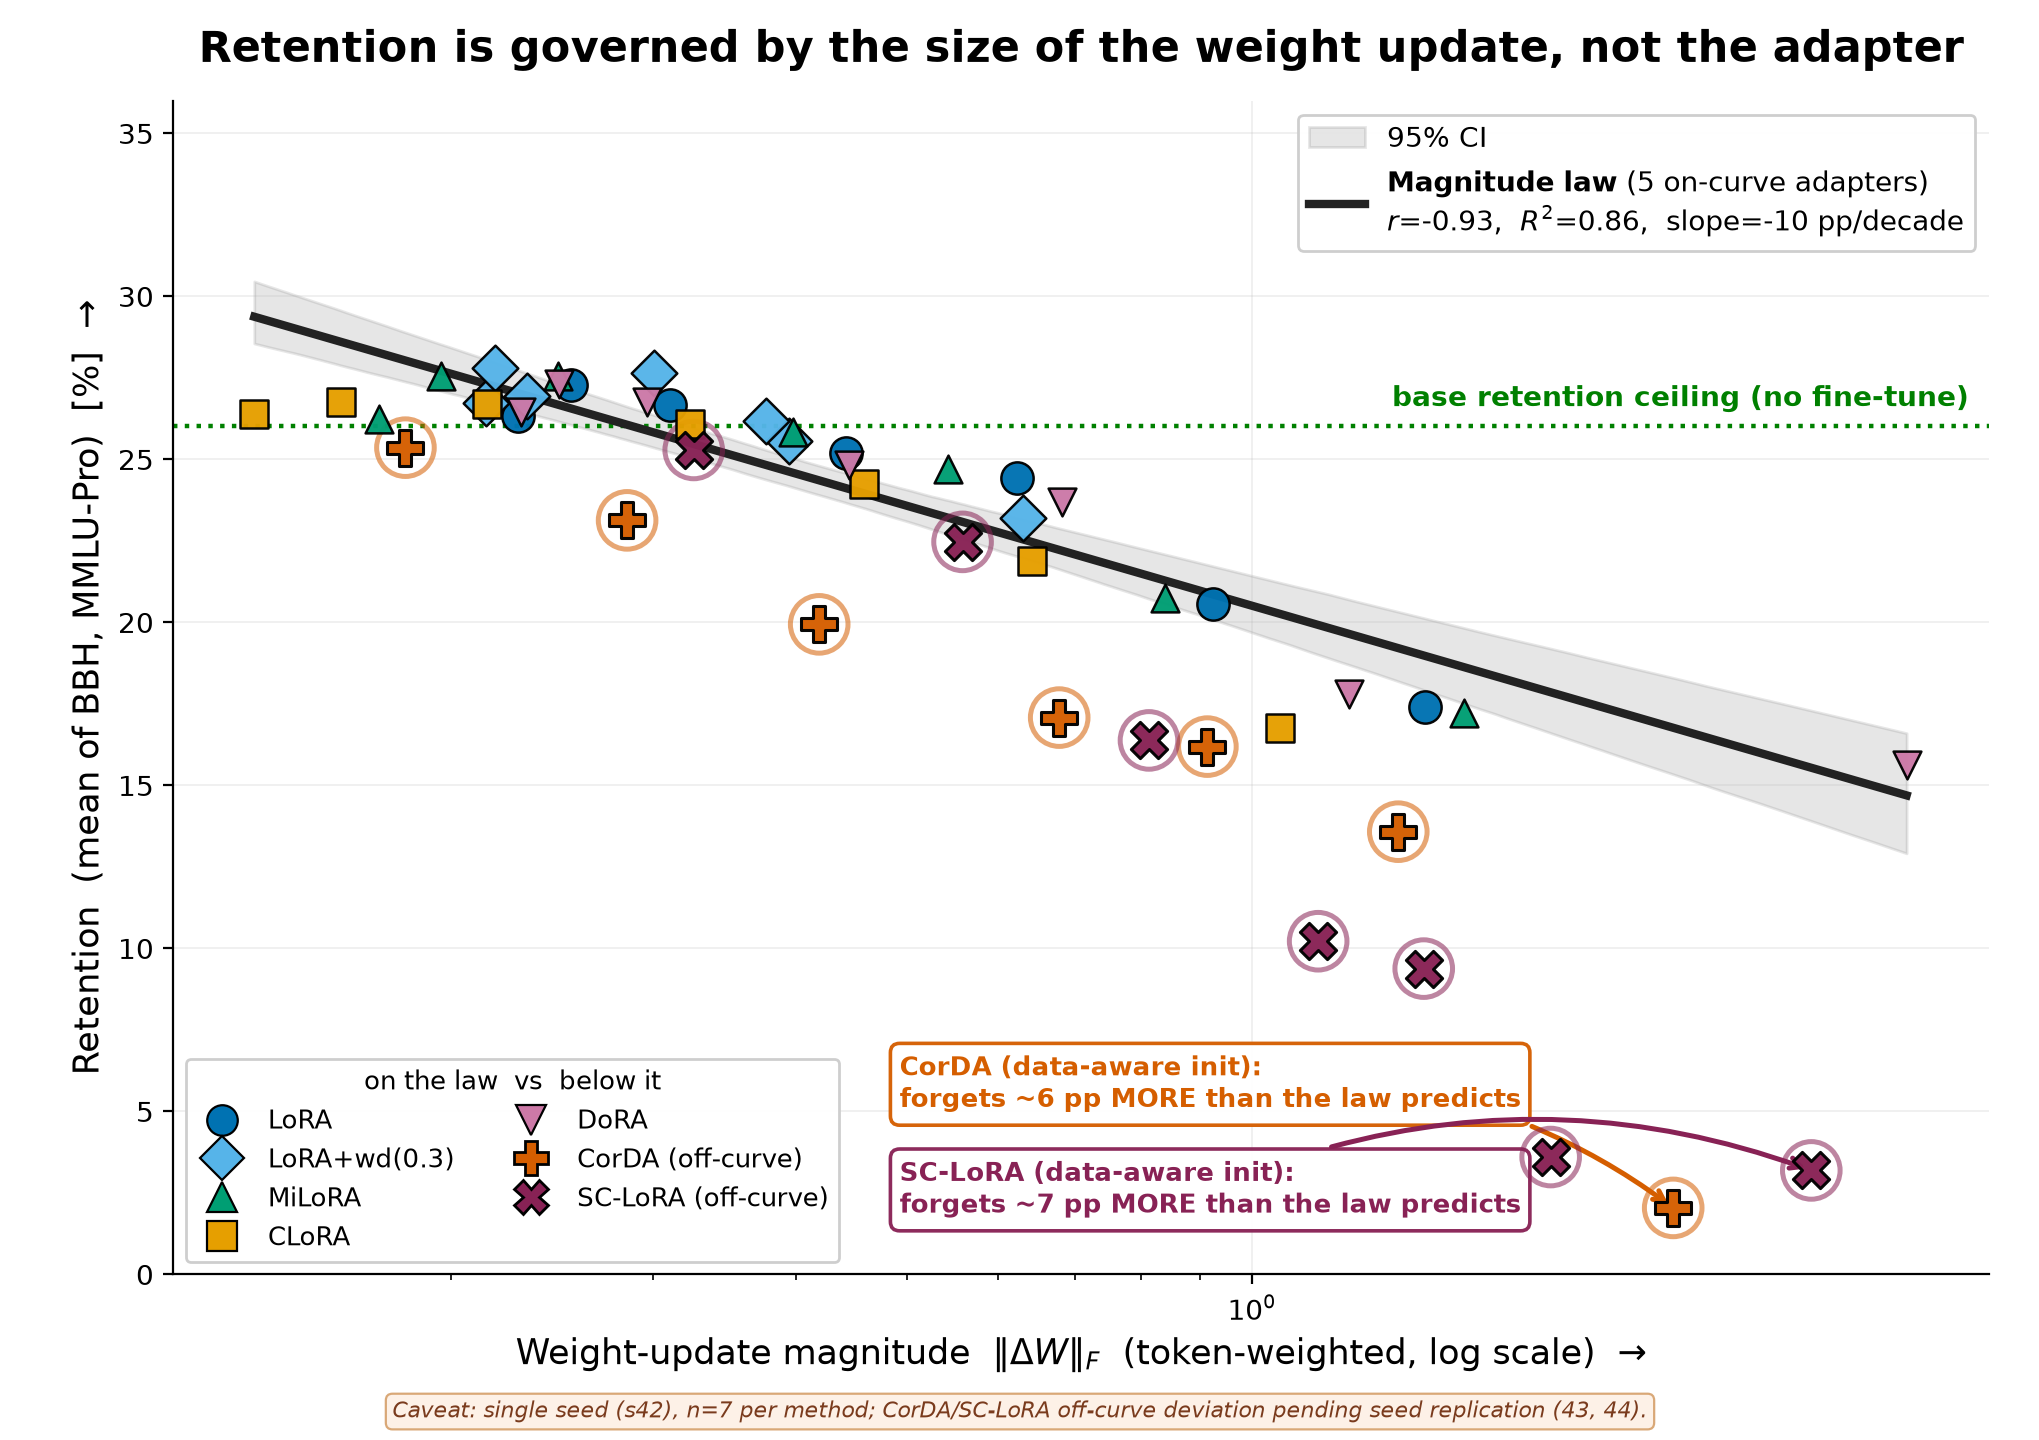
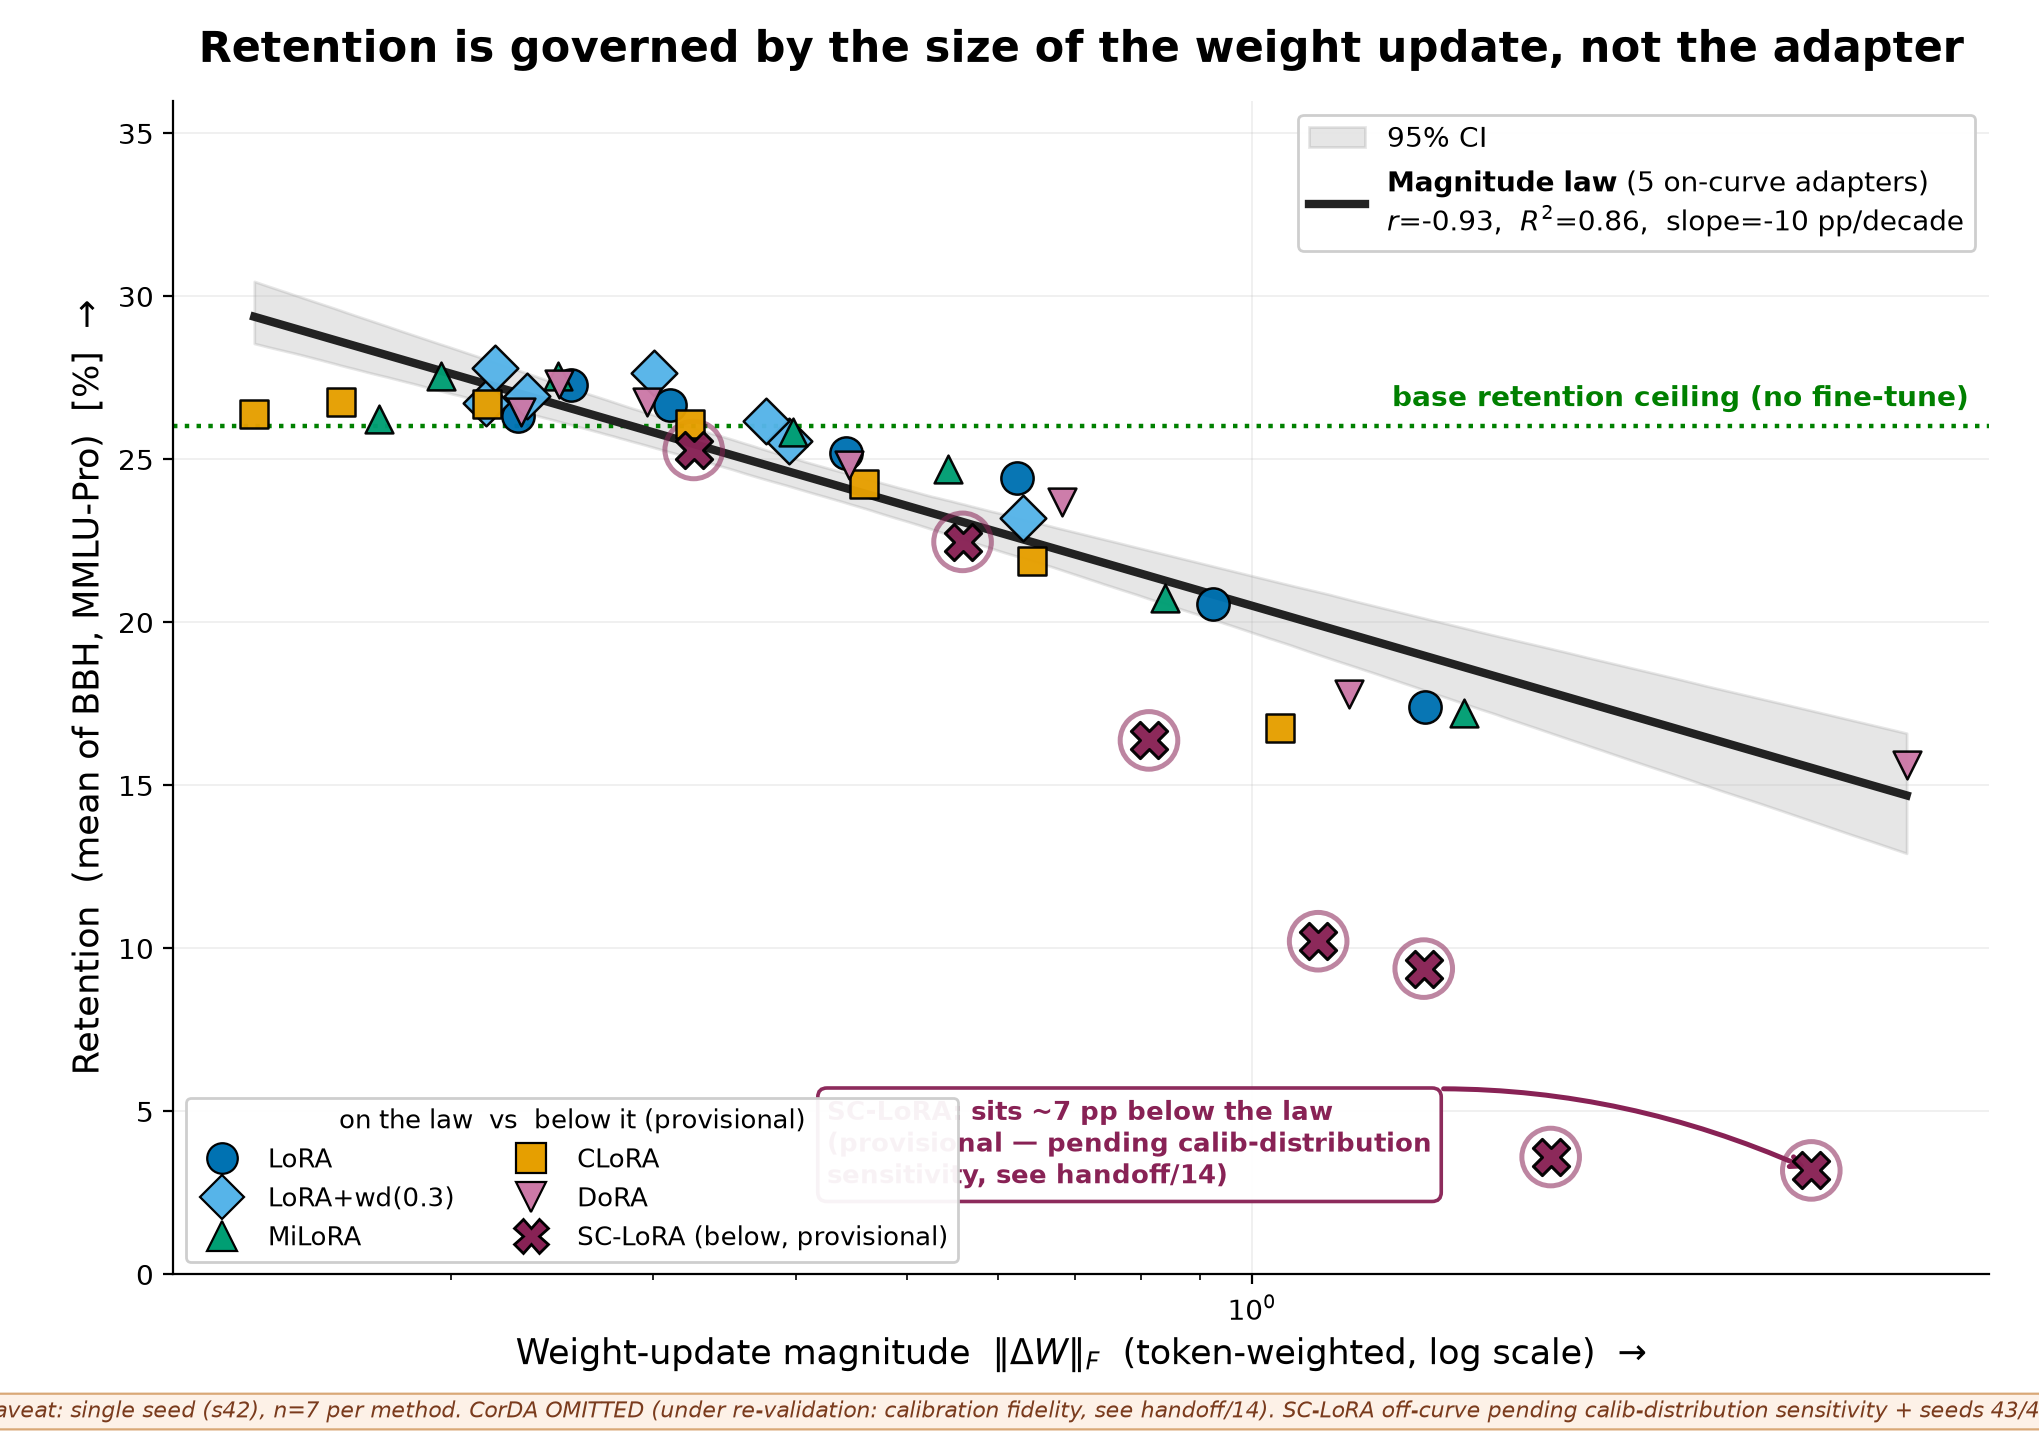
Regenerate figures+tables without CorDA; refit law on 6 methods
Graphs agent reworked paper_figs_v2.py (fig0/fig2 hardcoded-CorDA paths). Runs clean. Hero law (5 on-curve, n=35): r=-0.926 R2=0.858 slope -10.2pp/dec; 6-method pool r=-0.863. ANCOVA: SC-LoRA -3.96 (p=0.006) the SOLE below-curve method, framed PROVISIONAL (pending calib-distribution sensitivity), not 'data-aware inits forget more'. CorDA absent from all figs+tables. Co-Authored-By: Claude Opus 4.8 (1M context) <noreply@anthropic.com>

diff --git a/notebooks/catastrophic forgetting/paper_figs_v2.py b/notebooks/catastrophic forgetting/paper_figs_v2.py
@@ -57,7 +57,10 @@ plt.rcParams.update({
 })
 
 # Colorblind-safe palette (Okabe-Ito derived), distinct markers per method.
-METHODS = ["lora", "lorawd", "milora", "clora", "dora", "corda", "sclora"]
+# CorDA EXCLUDED from the active set (data under re-validation; see handoff/14). Its style entries
+# are kept below so any stale reference fails loud rather than KeyError-ing silently, but it is NOT
+# in METHODS and never plotted/tabulated.
+METHODS = ["lora", "lorawd", "milora", "clora", "dora", "sclora"]   # 6 active methods (CorDA omitted)
 PRETTY = {"lora": "LoRA", "lorawd": "LoRA+wd(0.3)", "milora": "MiLoRA", "clora": "CLoRA",
           "dora": "DoRA", "corda": "CorDA", "sclora": "SC-LoRA"}
 COL = {"lora": "#0072B2", "lorawd": "#56B4E9", "milora": "#009E73", "clora": "#E69F00",
@@ -150,7 +153,7 @@ def legend_handles(methods):
     return h
 
 def watermark(fig):
-    fig.text(0.006, 0.004, "Llama-2-7B  ·  LoRA-family  ·  s42 LR-sweep  ·  n=49 (7 methods × 7 LRs)",
+    fig.text(0.006, 0.004, "Llama-2-7B  ·  LoRA-family  ·  s42 LR-sweep  ·  n=42 (6 methods × 7 LRs)",
              ha="left", va="bottom", fontsize=7, color="0.55", style="italic")
 
 CAVEAT = ("Caveat: single seed (s42), n=7 per method. CorDA OMITTED (under re-validation: calibration "
@@ -161,22 +164,25 @@ def caveat_footer(fig, y=0.004):
              color="#7a3b1d", style="italic",
              bbox=dict(boxstyle="round,pad=0.3", fc="#fdf1e7", ec="#d9a877", lw=0.8))
 
-# Methods that fall ON the magnitude law vs the data-aware-init OUTLIERS that forget more than budget predicts.
+# Methods that fall ON the magnitude law vs the single PROVISIONAL below-curve outlier.
+# With CorDA omitted, SC-LoRA is the only below-curve method, and its deviation is PROVISIONAL —
+# pending a calibration-distribution sensitivity test (nq_open vs eval-matched) + seeds 43/44 (handoff/14).
 ON_CURVE = ["lora", "lorawd", "milora", "clora", "dora"]
-OFF_CURVE = ["corda", "sclora"]
+OFF_CURVE = ["sclora"]
 
 # Training-collapse outliers (degenerate adaptation; valid retention). run -> (adapt, note)
+# (CorDA's collapse run dropped with CorDA's exclusion.)
 COLLAPSE = {
     "lrsw_clora_k1024_lr1e4_s42": "CLoRA k1024 @ lr1e-4",
-    "lrsw_corda_r16_lr2e5_s42":   "CorDA r16 @ lr2e-5",
     "lrsw_dora_r16_lr2e5_s42":    "DoRA r16 @ lr2e-5",
 }
 
 # ================================================================ FIG 0  (HERO)
 def fig0_hero():
     """THE figure that carries the paper. Single clean panel: retention vs ||dW||_F (log-x),
-    pooled fit on the 5 on-curve adapters + bootstrap CI, all 7 methods by color/marker,
-    CorDA & SC-LoRA called out as below-curve outliers. Annotate r/R2, base ceiling, outliers."""
+    pooled fit on the 5 on-curve adapters + bootstrap CI, all 6 active methods by color/marker.
+    SC-LoRA is the single below-curve point, called out as PROVISIONAL (pending calib-distribution
+    sensitivity; see handoff/14). Annotate r/R2, base ceiling, the provisional outlier."""
     rows = SWEEP
     x = arr(rows, "F"); y = arr(rows, "ret")
     g = np.isfinite(x) & np.isfinite(y) & (x > 0)
@@ -187,7 +193,7 @@ def fig0_hero():
     on = np.array([r["method"] in ON_CURVE for r in rows])
     xon, yon = x[on], y[on]
     fit = fit_line_logx(xon, yon)
-    # full-pool fit (all 7) for reference in the annotation
+    # full-pool fit (all 6 active methods) for reference in the annotation
     fit_all = fit_line_logx(x, y)
     # robustness: on-curve law excluding the 3 training-collapse outliers (degenerate adaptation)
     keep = np.array([r["run"] not in COLLAPSE for r in rows]) & on
@@ -233,20 +239,22 @@ def fig0_hero():
     ax.text(ax.get_xlim()[1], BASE_CORE + 0.4, "base retention ceiling (no fine-tune)  ",
             color="green", fontsize=10, va="bottom", ha="right", fontweight="bold")
 
-    # call-out boxes for the two outliers, parked in the open lower-MIDDLE, arrows pointing right to clusters
+    # call-out box for the single PROVISIONAL below-curve outlier (SC-LoRA), parked in open lower-middle.
     annot = {
-        "corda":  dict(tx=0.40, ty=0.135),
-        "sclora": dict(tx=0.40, ty=0.045),
+        "sclora": dict(tx=0.36, ty=0.07),
     }
     for m in OFF_CURVE:
         mr = [r for r in rows if r["method"] == m]
         mx = arr(mr, "F"); my = arr(mr, "ret")
+        if len(mx) == 0:
+            continue
         # anchor on the lowest-retention (largest-deviation) point of this method
         j = int(np.argmin(my)); ax_x, ax_y = mx[j], my[j]
         cx = 10**np.mean(np.log10(mx))
         pred = fit["pred"](cx); cy = np.mean(my)
-        a = annot[m]
-        ax.annotate(f"{PRETTY[m]} (data-aware init):\nforgets ~{pred-cy:.0f} pp MORE than the law predicts",
+        a = annot.get(m, dict(tx=0.36, ty=0.07))
+        ax.annotate(f"{PRETTY[m]}: sits ~{pred-cy:.0f} pp below the law\n"
+                    f"(provisional — pending calib-distribution\nsensitivity, see handoff/14)",
                     xy=(ax_x, ax_y),
                     xytext=(a["tx"], a["ty"]), textcoords="axes fraction",
                     fontsize=9.5, color=COL[m], fontweight="bold", ha="left", va="bottom",
@@ -266,9 +274,9 @@ def fig0_hero():
     on_h = [Line2D([0],[0], marker=MARK[m], color=COL[m], lw=0, ms=11, markeredgecolor="k",
                    markeredgewidth=0.8, label=PRETTY[m]) for m in ON_CURVE]
     off_h = [Line2D([0],[0], marker=MARK[m], color=COL[m], lw=0, ms=12, markeredgecolor="k",
-                    markeredgewidth=1.0, label=PRETTY[m]+" (off-curve)") for m in OFF_CURVE]
+                    markeredgewidth=1.0, label=PRETTY[m]+" (below, provisional)") for m in OFF_CURVE]
     ax.legend(handles=on_h + off_h, loc="lower left", ncol=2, fontsize=9.2,
-              title="on the law  vs  below it", title_fontsize=9.5, framealpha=0.95)
+              title="on the law  vs  below it (provisional)", title_fontsize=9.5, framealpha=0.95)
 
     caveat_footer(fig, y=0.012)
     fig.subplots_adjust(left=0.085, right=0.975, top=0.93, bottom=0.115)
@@ -328,9 +336,9 @@ def fig1_magnitude_law():
         ax.text(10**(np.log10(x0) + 0.04*(np.log10(x1)-np.log10(x0))), BASE_CORE+0.35,
                 "base ceiling (no FT)", color="green", fontsize=8.2, va="bottom", ha="left")
     # one global method legend on top
-    fig.legend(handles=legend_handles(METHODS), loc="upper center", ncol=7,
+    fig.legend(handles=legend_handles(METHODS), loc="upper center", ncol=len(METHODS),
                bbox_to_anchor=(0.5, 1.005), fontsize=9.5, columnspacing=1.1, handletextpad=0.3)
-    fig.suptitle("Choosing a fair magnitude axis: $\\|\\Delta W\\|_F$ fits retention best across all 7 adapters "
+    fig.suptitle("Choosing a fair magnitude axis: $\\|\\Delta W\\|_F$ fits retention best across all 6 adapters "
                  "(Llama-2-7B, commonsense)", y=1.075, fontsize=14)
     watermark(fig)
     fig.tight_layout(rect=[0, 0.05, 1, 0.98])
@@ -398,7 +406,7 @@ def fig2_fairness_residuals():
     axL.set_xscale("log"); clean_logx(axL); axL.set_xlabel(r"$\|\Delta W\|_F$  (log scale)")
     axL.set_ylabel("Retention (BBH, MMLU-Pro mean) [%]")
     axL.axhline(BASE_CORE, ls=":", color="green", lw=1.3)
-    axL.set_title("5 adapters trace one curve; CorDA & SC-LoRA sit below it")
+    axL.set_title("5 adapters trace one curve; SC-LoRA sits below it (provisional)")
     axL.legend(loc="upper right", fontsize=8.8)
 
     # RIGHT: per-method residual strip+box
@@ -430,7 +438,7 @@ def fig2_fairness_residuals():
         if m in OFF_CURVE:
             tick.set_fontweight("bold"); tick.set_color(COL[m])
     axR.set_xlabel("Retention residual from pooled curve  [pp]   (> 0 = above the law)")
-    axR.set_title("5 adapters straddle 0;  CorDA & SC-LoRA forget significantly more (p<0.05)")
+    axR.set_title("5 adapters straddle 0;  SC-LoRA below 0 (provisional, see caveat)")
     # widen x so annotations have room on the right
     x0, x1 = axR.get_xlim(); axR.set_xlim(x0, x1 + 0.28*(x1-x0))
     lab_x = axR.get_xlim()[1] - 0.01*(axR.get_xlim()[1]-axR.get_xlim()[0])
@@ -439,12 +447,16 @@ def fig2_fairness_residuals():
         axR.text(lab_x, i+1, f"μ={mu:+.1f}{sig}", va="center", ha="right",
                  fontsize=8.5, color=cols[i], fontweight="bold")
 
-    fig.suptitle("5 of 7 adapters lie on the $\\|\\Delta W\\|$ law; the data-aware inits (CorDA, SC-LoRA) "
-                 "forget MORE than their budget predicts",
+    # SC-LoRA's residual mean (the single below-curve outlier), pulled live from the per-method stats.
+    scl_mu = next((mu for m, (mu, pv, nn) in zip(methods_here, tstats) if m == "sclora"), None)
+    scl_txt = f"SC-LoRA ($\\mu$={scl_mu:+.1f} pp)" if scl_mu is not None else "SC-LoRA"
+    fig.suptitle("5 of 6 adapters lie on the $\\|\\Delta W\\|$ law; SC-LoRA sits below it — a single "
+                 "PROVISIONAL outlier (under investigation)",
                  y=1.045, fontsize=13.5)
     fig.text(0.5, 0.965, "ANCOVA: adding a per-method intercept improves fit "
              f"($R^2$ {r2_lin:.2f}$\\rightarrow${r2_full:.2f}, $F_{{{df1},{df2}}}$={F_stat:.1f}, "
-             f"p={p_anova:.3f}) — driven entirely by CorDA ($\\mu$=−3.0*) and SC-LoRA ($\\mu$=−3.3*)",
+             f"p={p_anova:.3f}) — driven by {scl_txt}; PROVISIONAL pending calib-distribution "
+             "sensitivity + seeds (handoff/14)",
              ha="center", va="bottom", fontsize=9.5, color="0.3")
     watermark(fig)
     fig.tight_layout(rect=[0, 0.04, 1, 0.95])
@@ -500,7 +512,7 @@ def fig3_pareto():
     fig.suptitle("Adaptation–Retention Pareto frontier  (each point = one learning rate)", y=1.0, fontsize=14)
     fig.text(0.5, 0.005,
              "Red rings = training-collapse outliers (degenerate adaptation, valid retention; "
-             "magnitude law unchanged if excluded): clora k1024@1e-4, corda r16@2e-5, dora r16@2e-5.",
+             "magnitude law unchanged if excluded): clora k1024@1e-4, dora r16@2e-5.",
              ha="center", va="bottom", fontsize=8, color="red", style="italic")
     watermark(fig)
     fig.tight_layout(rect=[0, 0.04, 1, 0.97])
@@ -617,7 +629,7 @@ def fig5_per_benchmark():
     fig.text(0.5, 0.952, "Note: only BBH and MMLU-Pro have a measured base-model ceiling; "
              "MMLU, ARC-Challenge and TruthfulQA are uncalibrated (no base eval).",
              ha="center", va="bottom", fontsize=8.5, color="0.4", style="italic")
-    fig.legend(handles=legend_handles(METHODS), loc="lower center", ncol=7,
+    fig.legend(handles=legend_handles(METHODS), loc="lower center", ncol=len(METHODS),
                bbox_to_anchor=(0.5, 0.005), fontsize=9.5)
     watermark(fig)
     fig.subplots_adjust(left=0.055, right=0.985, top=0.90, bottom=0.10, hspace=0.46, wspace=0.27)
@@ -629,7 +641,7 @@ def fig5_per_benchmark():
 def fig6_extras():
     """Extras that strengthen the story:
     (a) adaptation vs ||dW||_F (adaptation needs magnitude — the tension);
-    (b) spectral structure: sv_max/sv_mean ratio per method (CorDA's spiky init = unfair x-axis warning);
+    (b) spectral structure: sv_max/sv_mean ratio per method (spiky inits = unfair x-axis warning);
     (c) the SAME magnitude buys different adaptation per method (efficiency)."""
     rows = SWEEP
     fig, axes = plt.subplots(1, 3, figsize=(16, 5.0))
@@ -666,7 +678,7 @@ def fig6_extras():
                     edgecolor="k", linewidth=0.4, zorder=5, alpha=0.9)
     axB.set_xticks(range(1, len(labels)+1)); axB.set_xticklabels(labels, rotation=30, ha="right")
     axB.set_ylabel(r"$\sigma_{\max}/\overline{\sigma}$  (spectral spikiness)")
-    axB.set_title("Why $\\sigma_{\\max}$ is an unfair x-axis\n(CorDA/DoRA spike; LoRA flat)")
+    axB.set_title("Why $\\sigma_{\\max}$ is an unfair x-axis\n(DoRA/SC-LoRA spike; LoRA flat)")
     axB.axhline(np.median([np.median(d) for d in data]), ls=":", color="0.5")
 
     # (c) magnitude-efficiency: adaptation at fixed retention budget. Interp adapt @ ret=24 per method
@@ -693,7 +705,7 @@ def fig6_extras():
 
     fig.suptitle("Supporting structure: the adaptation cost of magnitude, spectral fairness, and per-adapter efficiency",
                  y=1.02, fontsize=13)
-    fig.legend(handles=legend_handles(METHODS), loc="upper center", ncol=7,
+    fig.legend(handles=legend_handles(METHODS), loc="upper center", ncol=len(METHODS),
                bbox_to_anchor=(0.5, 0.985), fontsize=9)
     watermark(fig)
     fig.tight_layout(rect=[0, 0, 1, 0.93])
@@ -708,7 +720,7 @@ SAFE_RET = 24.0   # "safe" = retention >= base_ceiling - 2pp  (BASE_CORE ~= 26.0
 
 # Caption note: ranks/secondary configs are NOT matched across methods -> we frame the LAW, not a ranking.
 CFG_NOTE = ("Note: ranks / secondary configs are NOT matched across methods "
-            "(LoRA/DoRA/CorDA r16, MiLoRA/SC-LoRA r32, CLoRA k1024) — cross-method gaps are partly "
+            "(LoRA/DoRA r16, MiLoRA/SC-LoRA r32, CLoRA k1024) — cross-method gaps are partly "
             "config effects. We frame around the magnitude law, not a method ranking.")
 def cfg_note_footer(fig, y=0.028):
     fig.text(0.5, y, CFG_NOTE, ha="center", va="bottom", fontsize=8, color="0.35", style="italic")
@@ -767,12 +779,12 @@ def fig7_lr_is_the_proxy():
     axA.set_xlabel("learning rate (log scale)")
     axA.set_ylabel(r"resulting  $\|\Delta W\|_F$  (token-weighted, log scale)")
     axA.set_title("A.  Same LR → different $\\|\\Delta W\\|$")
-    # call out the data-aware inits sitting ABOVE the pack (more magnitude per LR).
+    # call out SC-LoRA (data-aware init) sitting ABOVE the pack (more magnitude per LR).
     # anchor on SC-LoRA's lowest-LR point; use a neutral-gray, near-straight arrow so it does NOT
     # read as part of the (purple) SC-LoRA line — the curved colored arrow looked like a data hook.
     _scl0 = min(_msorted(rows, "sclora"), key=lambda r: r["lr"])
-    axA.annotate("data-aware inits (CorDA, SC-LoRA)\nturn the same LR into a LARGER update\n"
-                 "→ the mechanism behind their extra forgetting",
+    axA.annotate("SC-LoRA (data-aware init)\nturns the same LR into a LARGER update\n"
+                 "→ candidate mechanism for its extra forgetting (provisional)",
                  xy=(_scl0["lr"], _scl0["F"]),
                  xytext=(0.05, 0.97), textcoords="axes fraction",
                  fontsize=8.6, color="0.15", ha="left", va="top",
@@ -908,7 +920,7 @@ def fig8_magnitude_budget():
     axB.text(axB.get_xlim()[1], SAFE_RET - 0.5, "safe threshold (base − 2pp)  ",
              color="0.4", fontsize=8.3, va="top", ha="right")
 
-    fig.legend(handles=legend_handles(METHODS), loc="upper center", ncol=7,
+    fig.legend(handles=legend_handles(METHODS), loc="upper center", ncol=len(METHODS),
                bbox_to_anchor=(0.5, 1.005), fontsize=9.2, columnspacing=1.0, handletextpad=0.3)
     fig.suptitle(r"The magnitude budget: one axis ($\|\Delta W\|_F$) sets both adaptation and forgetting",
                  y=1.052, fontsize=14)
@@ -1084,7 +1096,7 @@ if __name__ == "__main__":
     print("\n=== FIG0 HERO: magnitude law fit on 5 on-curve adapters ===")
     print(f"  on-curve (n={hero['n_on']}): r={hero['on_curve']['r']:+.3f}  R2={hero['on_curve']['r2']:.3f}  "
           f"slope={hero['on_curve']['slope']:.2f} pp/decade")
-    print(f"  all-7 pooled:            r={hero['all']['r']:+.3f}  R2={hero['all']['r2']:.3f}")
+    print(f"  all-6 pooled:            r={hero['all']['r']:+.3f}  R2={hero['all']['r2']:.3f}")
     print(f"  robustness (on-curve, excl. 3 collapse outliers): r={hero['robust']['r']:+.3f}  "
           f"R2={hero['robust']['r2']:.3f}  slope={hero['robust']['slope']:.2f}  -> law unchanged")
     p1, fits = fig1_magnitude_law(); paths.append(p1)

diff --git a/notebooks/catastrophic forgetting/paper/table_main_cs.tex b/notebooks/catastrophic forgetting/paper/table_main_cs.tex
@@ -10,7 +10,6 @@ MiLoRA & milora r32, lr3e-4 & 79.9 & 24.7 & 33.6 & 0.543 & 48.5 \\
 LoRA & lora r16, lr3e-4 & 79.1 & 24.4 & 32.7 & 0.623 & 40.7 \\
 CLoRA & clora k1024, lr5e-4 & 78.4 & 21.9 & 30.1 & 0.643 & 29.8 \\
 DoRA & dora r16, lr2e-4 & 78.3 & 24.8 & 32.9 & 0.445 & 38.8 \\
-% CorDA OMITTED — under re-validation: wikitext-calib bug (fixed->nq_open, re-running) + calib<->eval distribution question. See handoff/14.
 \bottomrule
 \end{tabular}
 % single seed s42; ranks/configs not matched across methods; each method shown at its best-adapt LR (sweep-only).
